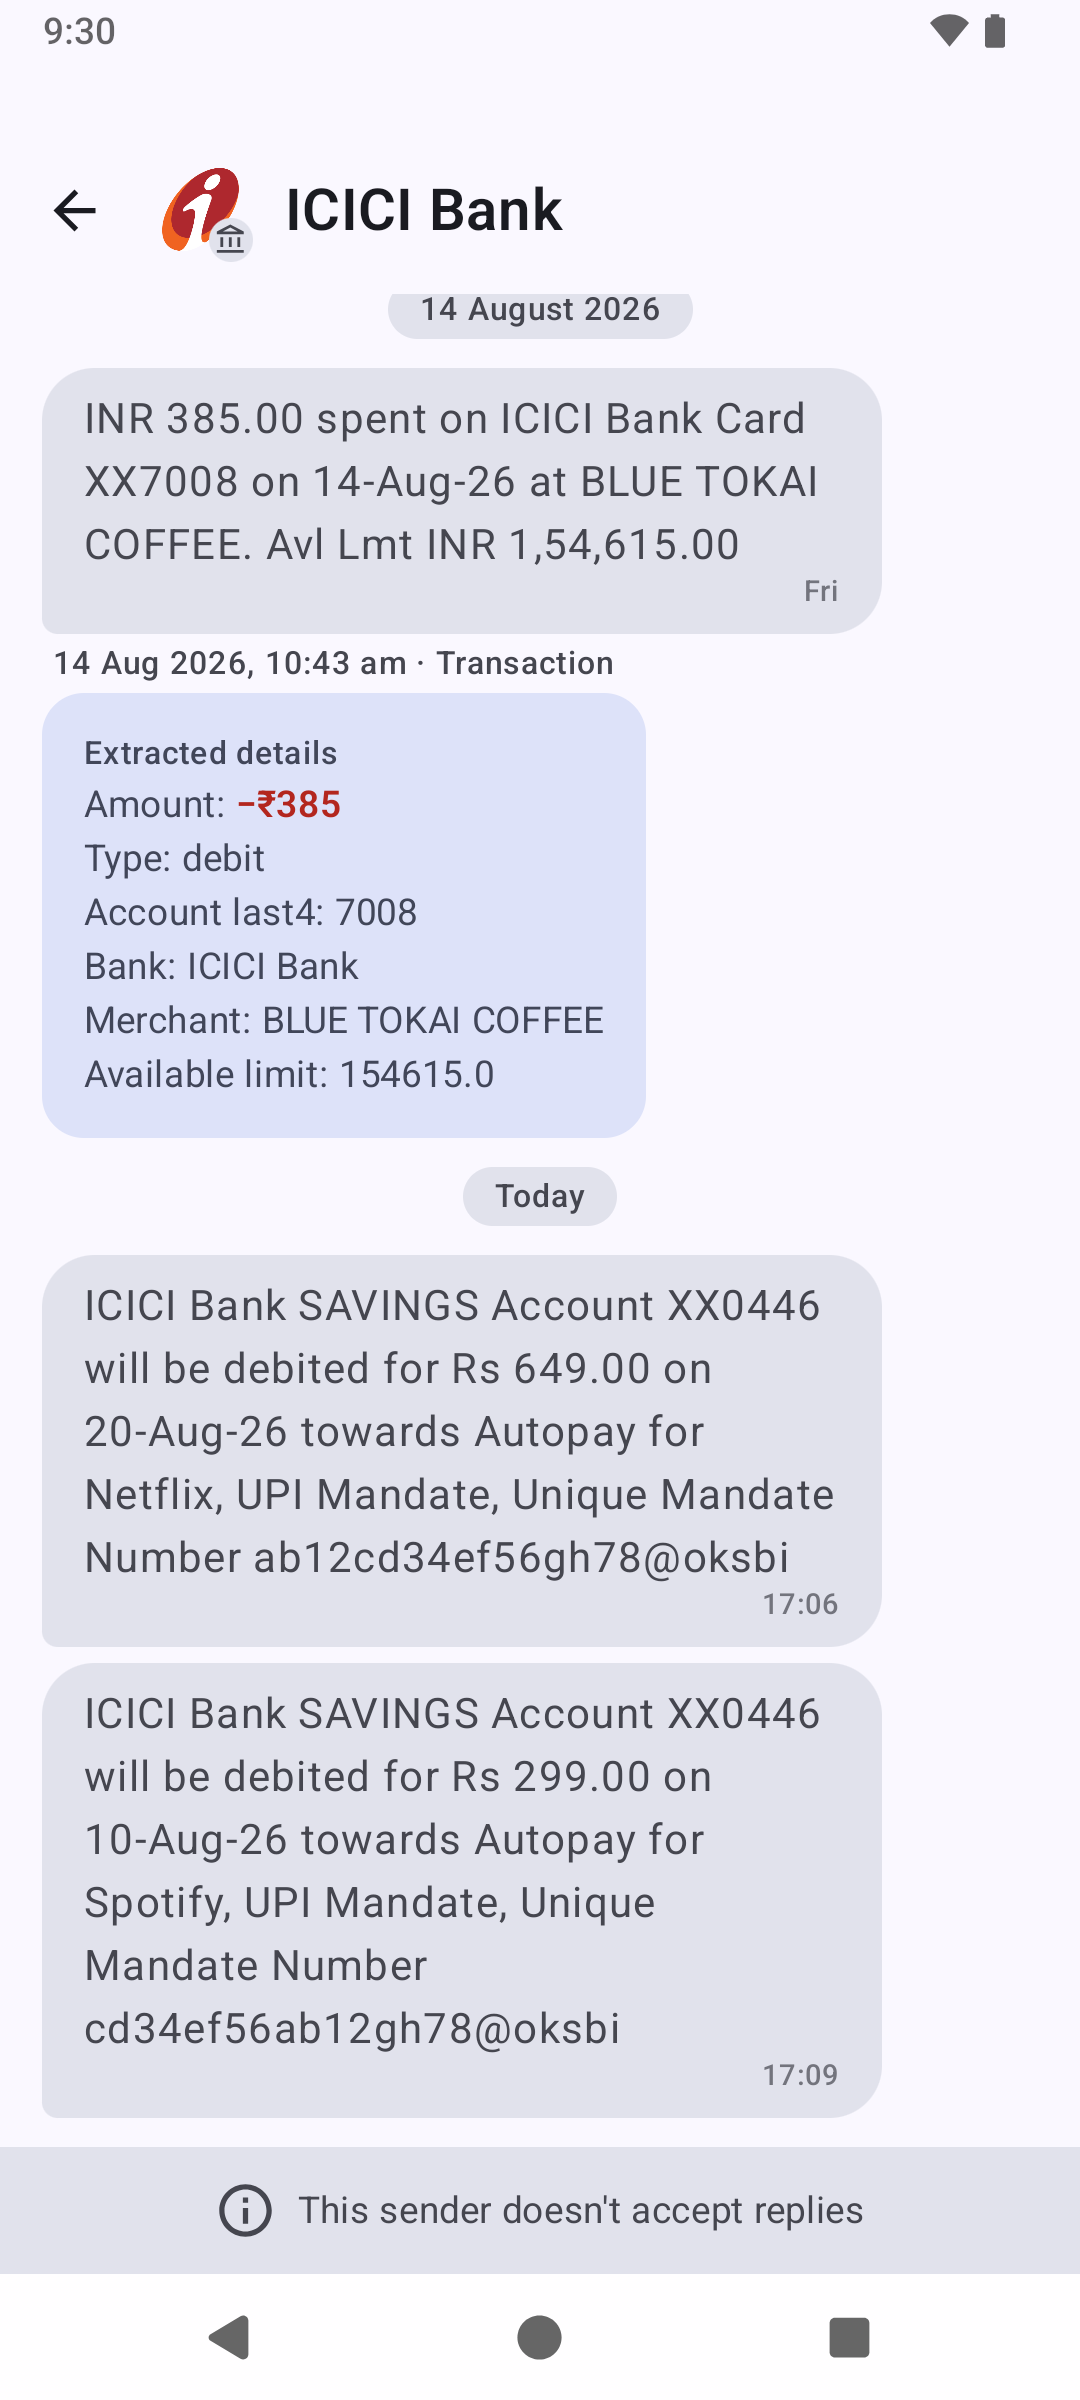
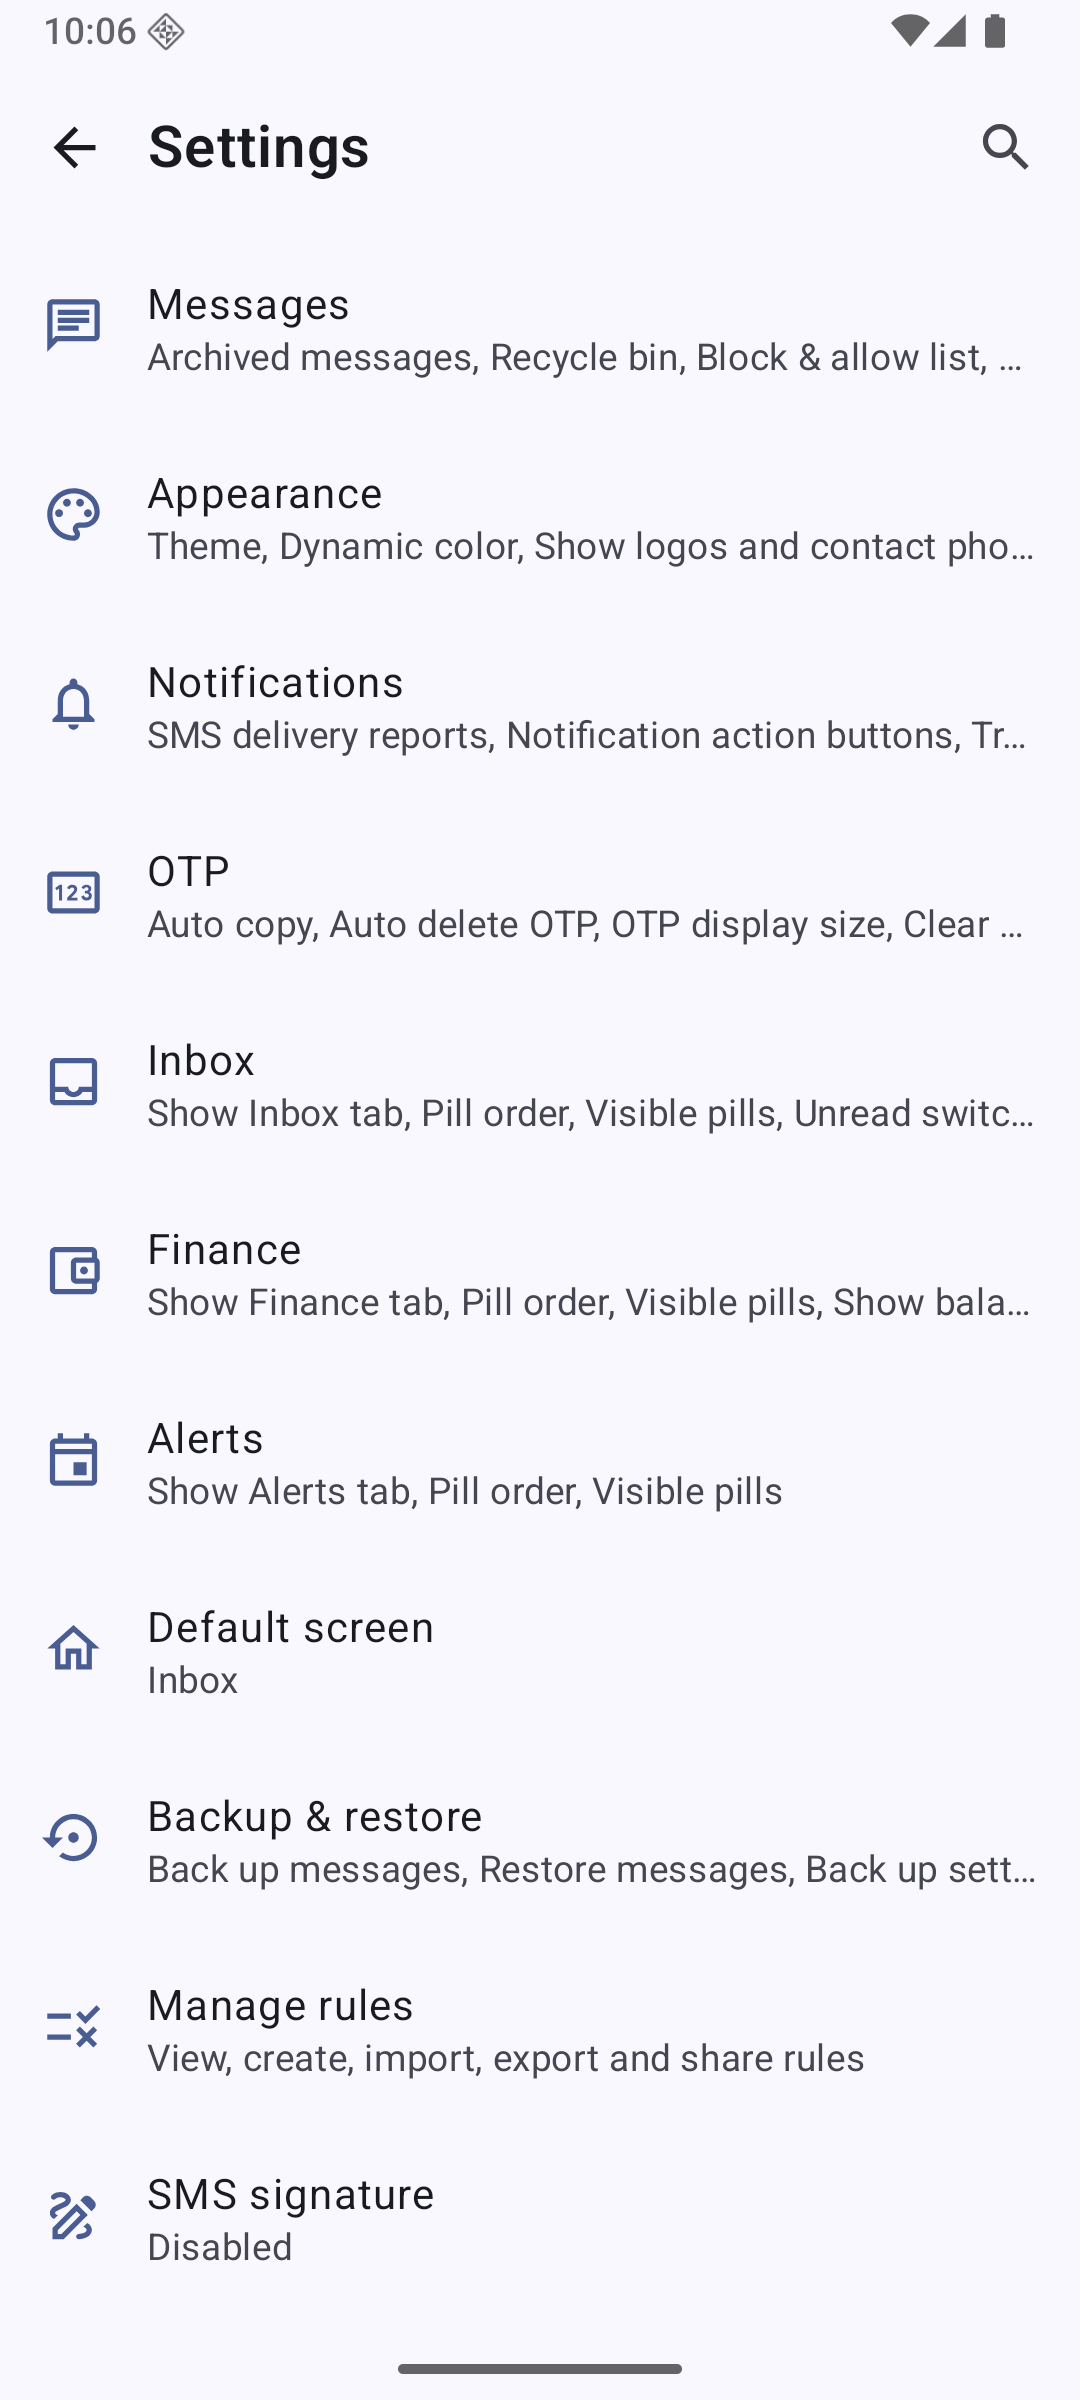
docs(screenshots): Replace extracted-transaction shot with Settings
The README gallery and the F-Droid listing showed an "Extracted
transaction" screenshot; replace it with the top-level Settings page,
whose per-row leading icons are now the more representative view.
Captured on the 1080x2400 AVD in light theme with synthetic data only;
docs/screenshots/settings.png and phoneScreenshots/4.png are identical.

diff --git a/README.md b/README.md
@@ -32,9 +32,9 @@ handles OTPs intelligently - all completely offline, on your device.
 | :---: | :---: | :---: |
 | ![Inbox](docs/screenshots/inbox.png) | ![Finance dashboard](docs/screenshots/finance.png) | ![Alerts](docs/screenshots/alerts.png) |
 
-| Account detail | Extracted transaction | Search |
+| Account detail | Settings | Search |
 | :---: | :---: | :---: |
-| ![Account detail](docs/screenshots/account-detail.png) | ![Extracted transaction](docs/screenshots/extracted-transaction.png) | ![Search](docs/screenshots/search.png) |
+| ![Account detail](docs/screenshots/account-detail.png) | ![Settings](docs/screenshots/settings.png) | ![Search](docs/screenshots/search.png) |
 
 | Parsed notifications | OTP notification | Balance lock | Dark theme |
 | :---: | :---: | :---: | :---: |
